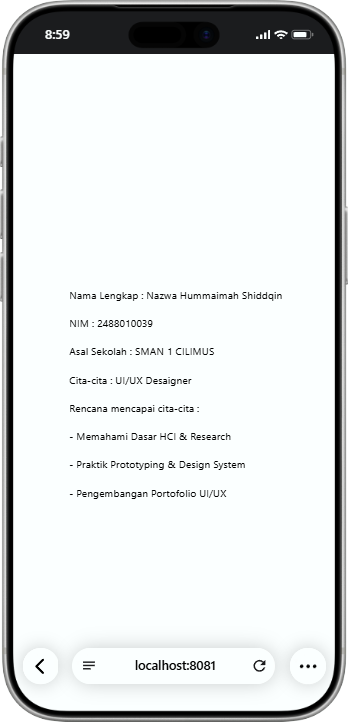
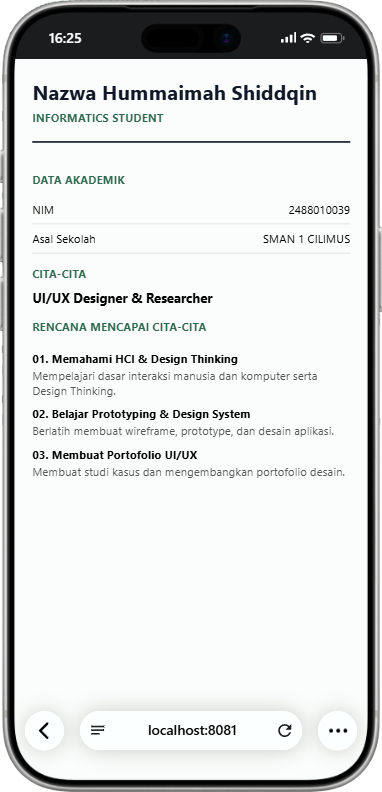
Tugas Pemnrograman Mobile Pertemuan 2

diff --git a/Pemrograman Mobile/Pertemuan-2/ptmn2/App.js b/Pemrograman Mobile/Pertemuan-2/ptmn2/App.js
@@ -1,20 +1,47 @@
-import { StatusBar } from 'expo-status-bar';
-import { StyleSheet, Text, View } from 'react-native';
+import React from 'react';
+import { View, Text, StyleSheet } from 'react-native';
 
 export default function App() {
   return (
     <View style={styles.container}>
-      <Text>
-         {"\n"} Nama Lengkap : Nazwa Hummaimah Shiddqin{"\n"}
-         {"\n"} NIM : 2488010039 {"\n"}
-         {"\n"} Asal Sekolah : SMAN 1 CILIMUS{"\n"}
-         {"\n"} Cita-cita : UI/UX Desaigner{"\n"}
-         {"\n"} Rencana mencapai cita-cita : {"\n"}
-         {"\n"} - Memahami Dasar HCI & Research{"\n"}
-         {"\n"} - Praktik Prototyping & Design System{"\n"}
-         {"\n"} - Pengembangan Portofolio UI/UX{"\n"}
+
+      <Text style={styles.name}>Nazwa Hummaimah Shiddqin</Text>
+      <Text style={styles.title}>INFORMATICS STUDENT</Text>
+
+      <View style={styles.line} />
+
+      <Text style={styles.heading}>DATA AKADEMIK</Text>
+
+      <View style={styles.row}>
+        <Text>NIM</Text>
+        <Text>2488010039</Text>
+      </View>
+
+      <View style={styles.row}>
+        <Text>Asal Sekolah</Text>
+        <Text>SMAN 1 CILIMUS</Text>
+      </View>
+
+      <Text style={styles.heading}>CITA-CITA</Text>
+      <Text style={styles.cita}>UI/UX Designer & Researcher</Text>
+
+      <Text style={styles.heading}>RENCANA MENCAPAI CITA-CITA</Text>
+
+      <Text style={styles.plan}>01. Memahami HCI & Design Thinking</Text>
+      <Text style={styles.description}>
+        Mempelajari dasar interaksi manusia dan komputer serta Design Thinking.
       </Text>
-      <StatusBar style="auto" />
+
+      <Text style={styles.plan}>02. Belajar Prototyping & Design System</Text>
+      <Text style={styles.description}>
+        Berlatih membuat wireframe, prototype, dan desain aplikasi.
+      </Text>
+
+      <Text style={styles.plan}>03. Membuat Portofolio UI/UX</Text>
+      <Text style={styles.description}>
+        Membuat studi kasus dan mengembangkan portofolio desain.
+      </Text>
+
     </View>
   );
 }
@@ -22,8 +49,56 @@ export default function App() {
 const styles = StyleSheet.create({
   container: {
     flex: 1,
-    backgroundColor: '#fff',
-    alignItems: 'center',
-    justifyContent: 'center',
+    padding: 25,
+    backgroundColor: '#FAFDFB',
+  },
+
+  name: {
+    fontSize: 25,
+    fontWeight: 'bold',
+    color: '#111827',
+  },
+
+  title: {
+    marginTop: 5,
+    color: '#2D6A4F',
+    fontWeight: 'bold',
+  },
+
+  line: {
+    height: 2,
+    backgroundColor: '#111827',
+    marginVertical: 20,
+  },
+
+  heading: {
+    marginTop: 15,
+    marginBottom: 10,
+    color: '#2D6A4F',
+    fontWeight: 'bold',
+  },
+
+  row: {
+    flexDirection: 'row',
+    justifyContent: 'space-between',
+    paddingVertical: 8,
+    borderBottomWidth: 1,
+    borderBottomColor: '#ddd',
+  },
+
+  cita: {
+    fontSize: 16,
+    fontWeight: 'bold',
+  },
+
+  plan: {
+    marginTop: 10,
+    fontWeight: 'bold',
+  },
+
+  description: {
+    marginTop: 3,
+    color: '#555',
+    lineHeight: 18,
   },
 });
